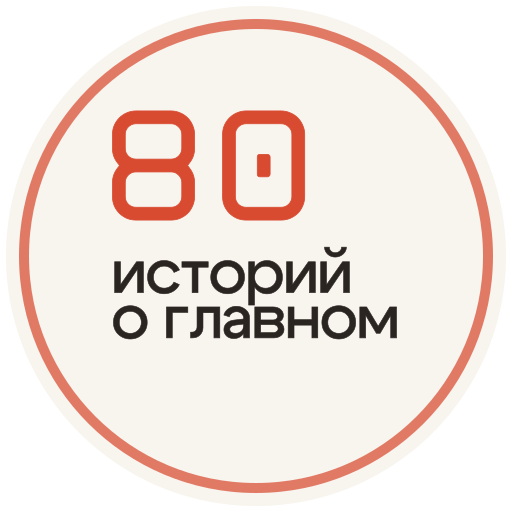
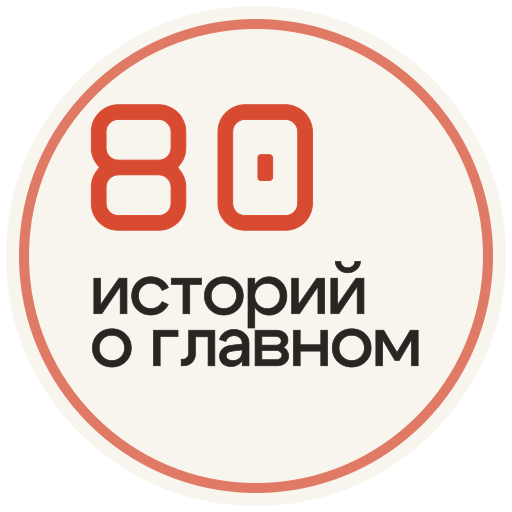
fix(static-site): tune organizer medallion visuals

Changed region(s): [[0.1562, 0.4688, 0.8438, 0.7188], [0.1562, 0.1875, 0.625, 0.4688]]

diff --git a/site/src/assets/organizers/source/README.md b/site/src/assets/organizers/source/README.md
@@ -13,9 +13,9 @@ These files are official/source-faithful inputs for the first event-page organiz
 | `dom-kitoboya` | Дом китобоя | https://domkitoboya.ru/ + https://t.me/domkitoboya | source logo snapshot `dom-kitoboya.logo.webp` + Telegram avatar snapshot `dom-kitoboya.telegram-avatar-20260701.jpg` | `/assets/organizers/dom-kitoboya-stacked.webp` (`.png` fallback) | Медальон собирается из фирменного логотипа без верхней мелочи; public `logo.svg` candidates returned 404 on 2026-07-02 while `logo.webp`/`logo.png` exist, so the medallion remains WebP-first raster until a source SVG is found. |
 | `tretyakovka-kaliningrad` | Филиал Третьяковской галереи | https://t.me/tretyakovka_kaliningrad | Telegram avatar snapshot `tretyakovka-kaliningrad.telegram-avatar-20260701.jpg` | `/assets/organizers/tretyakovka-kaliningrad.svg` + PNG/WebP fallback | Простая геометричная золотая буква `Т` реконструирована как SVG-примитивы на тёплом светлом фоне. |
 | `konb` | Калининградская областная научная библиотека | local docs/reference/лого КОНБ (1)(1).png | `konb.logo.png` | `/assets/organizers/konb.webp` / `/assets/organizers/konb.png` | Explicit raster exception for the 2026-07-02 SVG pass; this task intentionally does not convert КОНБ. |
-| `act-opus` | Театр «Акт Опус» | https://actop.us/plays | Next image PNG `logo_new_black.3136802c.png` | `/assets/organizers/act-opus.svg` (`.png` fallback) | Осьминог заменён на стековую надпись из официального wordmark: блок `АКТ` и слово `ОПУС` сохранены из source PNG и размещены друг над другом внутри круга. SVG self-contained, без OpenAI image generation. |
-| `znanie-russia` | Российское общество «Знание» | https://znanierussia.ru/ + local kgd80 shared assets | official site CSS primary `#0501D0`; `logo-znanie-festival.svg` + `logo-znanie-main.svg` | `/assets/organizers/znanie-russia.svg` (`.png` fallback) | Полный круг залит официальным синим `#0501D0`, внутренний знак `З` оставлен белым и оптически центрирован. Для `event.festival=80 историй о главном` показывается по curated policy даже без явного упоминания Знания в тексте. |
-| `kgd80` | Фестиваль «80 историй о главном» | https://kgd80.ru/ | `kgd80.logo-80-istorii-hero.svg` from the KGD80 hero logo | `/assets/organizers/kgd80.svg` (`.png` fallback) | Новый медальон фестиваля из hero lockup; для событий `80 историй о главном` рендерится вместе с медальоном Российского общества «Знание». |
+| `act-opus` | Театр «Акт Опус» | https://actop.us/plays | Next image PNG `logo_new_black.3136802c.png` | `/assets/organizers/act-opus.svg` (`.png` fallback) | Осьминог заменён на стековую надпись из официального wordmark: блок `АКТ` и слово `ОПУС` сохранены из source PNG и размещены друг над другом внутри круга; `АКТ` уменьшен/опущен с безопасным inset. SVG self-contained, без OpenAI image generation. |
+| `znanie-russia` | Российское общество «Знание» | https://znanierussia.ru/ + local kgd80 shared assets | official site CSS primary `#0501D0`; `logo-znanie-festival.svg` + `logo-znanie-main.svg` | `/assets/organizers/znanie-russia.svg` (`.png` fallback) | Полный круг залит официальным синим `#0501D0`, внутренний знак `З` оставлен белым, увеличен и клипуется нижним краем круга. Для `event.festival=80 историй о главном` показывается по curated policy даже без явного упоминания Знания в тексте. |
+| `kgd80` | Фестиваль «80 историй о главном» | https://kgd80.ru/ | `kgd80.logo-80-istorii-hero.svg` from the KGD80 hero logo | `/assets/organizers/kgd80.svg` (`.png` fallback) | Новый медальон фестиваля из hero lockup; tighter viewBox увеличивает знак внутри круга с безопасными отступами. Для событий `80 историй о главном` рендерится вместе с медальоном Российского общества «Знание». |
 | `kantata-festival` | Фестиваль «Кантата» | https://kantatafest.ru/obrazovatelnaya-programma | `Kantata_logo_Black_R.png` | `/assets/organizers/kantata-festival.webp` (`.png` fallback) | Используется официальный wordmark «КАНТАТА»; source raster, поэтому runtime WebP-first. |
 
 No OpenAI image generation/editing was used. The medallions were produced by local SVG rendering/vectorization, source cropping/recomposition, embedded-source SVG where needed, and PNG fallback export. If no SVG source/vector-safe source exists, browser-facing runtime assets should be WebP-first, with PNG only as fallback/QA.

diff --git a/docs/features/static-site-pages/event-token-medallions.md b/docs/features/static-site-pages/event-token-medallions.md
@@ -119,9 +119,9 @@ The starter organizer avatars are saved as local medallion-ready assets. Runtime
 | Дом китобоя | `dom-kitoboya` | `/assets/organizers/dom-kitoboya-stacked.webp` (`.png` fallback) | source logo snapshot from `domkitoboya.ru` split into two words and recomposed as v2 enlarged/left-shifted `дом` over `Китобоя`; no official/source SVG was found in the checked public candidates, so this medallion intentionally remains WebP-first raster for now |
 | Филиал Третьяковской галереи | `tretyakovka-kaliningrad` | `/assets/organizers/tretyakovka-kaliningrad.svg` (`.png` fallback/QA) | public Telegram avatar from `t.me/tretyakovka_kaliningrad`; the simple gold `Т` mark is reconstructed as SVG primitives on a warm light background |
 | Калининградская областная научная библиотека | `konb` | `/assets/organizers/konb.webp` (`.png` fallback) | local reference `docs/reference/лого КОНБ (1)(1).png`; explicit raster exception for the 2026-07-02 SVG pass |
-| Театр «Акт Опус» | `act-opus` | `/assets/organizers/act-opus.svg` (`.png` fallback/QA) | official `actop.us/plays` Next image PNG wordmark; medallion stacks `АКТ` over `ОПУС`, replacing the octopus symbol |
-| Российское общество «Знание» | `znanie-russia` | `/assets/organizers/znanie-russia.svg` (`.png` fallback/QA) | current official site primary blue `#0501D0` from `znanierussia.ru`; local kgd80 vector supplies the white internal `З` symbol |
-| Фестиваль «80 историй о главном» | `kgd80` | `/assets/organizers/kgd80.svg` (`.png` fallback/QA) | KGD80 hero lockup from `site/src/assets/partners/source/kgd80.logo-80-istorii-hero.svg`; forced for `event.festival=80 историй о главном` |
+| Театр «Акт Опус» | `act-opus` | `/assets/organizers/act-opus.svg` (`.png` fallback/QA) | official `actop.us/plays` Next image PNG wordmark; medallion stacks `АКТ` over `ОПУС`, replacing the octopus symbol, with `АКТ` inset inside the circle |
+| Российское общество «Знание» | `znanie-russia` | `/assets/organizers/znanie-russia.svg` (`.png` fallback/QA) | current official site primary blue `#0501D0` from `znanierussia.ru`; local kgd80 vector supplies the enlarged white internal `З` symbol clipped by the lower circle edge |
+| Фестиваль «80 историй о главном» | `kgd80` | `/assets/organizers/kgd80.svg` (`.png` fallback/QA) | KGD80 hero lockup from `site/src/assets/partners/source/kgd80.logo-80-istorii-hero.svg`; tighter medallion viewBox with safe margins; forced for `event.festival=80 историй о главном` |
 | Фестиваль «Кантата» | `kantata-festival` | `/assets/organizers/kantata-festival.webp` (`.png` fallback) | official Tilda PNG wordmark `КАНТАТА`; WebP-first because source is raster |
 
 Asset inventory:
@@ -137,9 +137,9 @@ Asset inventory:
 - `tretyakovka-kaliningrad` is reconstructed as simple SVG primitives from the geometric Telegram avatar;
 - `dom-kitoboya` is intentionally not SVG because no source SVG was found (`logo.svg` candidates returned 404); it is WebP-first with PNG fallback;
 - `konb` is intentionally unchanged as the explicit raster exception for this pass;
-- `act-opus` is updated to a self-contained SVG medallion that stacks the official `АКТ` / `ОПУС` wordmark instead of using the octopus symbol;
-- `znanie-russia` is updated to the official blue `#0501D0` full circle with the internal `З` kept white;
-- `kgd80` is added as an SVG festival medallion from the «80 историй о главном» hero logo;
+- `act-opus` is updated to a self-contained SVG medallion that stacks the official `АКТ` / `ОПУС` wordmark instead of using the octopus symbol, with the `АКТ` crop safely inset inside the circle;
+- `znanie-russia` is updated to the official blue `#0501D0` full circle with the internal `З` kept white, scaled larger and clipped by the lower circle edge;
+- `kgd80` is added as an SVG festival medallion from the «80 историй о главном» hero logo, using a tighter lockup viewBox for fuller circular occupancy;
 - `kantata-festival` remains a WebP-first raster medallion because the available official source is PNG;
 - `znanie-russia` is detected when the event explicitly names «Знание» as organizer/partner/supporter or links to `znanierussia.ru`, and is also forced by curated policy for `event.festival=80 историй о главном`.
 

diff --git a/CHANGELOG.md b/CHANGELOG.md
@@ -38,6 +38,7 @@
 
 - **Static site / information partners mobile grid**: replaced the oversized prose-card `/partners/` layout with compact full-tile partner links, a two-column mobile logo grid, desktop/tablet aspect-aware spans, and preview checks that block separate `Сайт партнёра` CTA regressions.
 - **Static site pages / KGD80 and organizer medallions**: corrected the Society «Знание» medallion to the official blue full-circle treatment with a white internal sign, replaced the Акт Опус octopus medallion with the stacked official wordmark, and added the «80 историй о главном» festival medallion with curated paired Znanie display for KGD80 festival events.
+- **Static site pages / medallion visual calibration**: optically tuned the Society «Знание», Акт Опус and «80 историй о главном» SVG medallions so the Znanie sign is larger and cropped by the lower circle edge, the `АКТ` wordmark stays inside the circle, and the KGD80 hero lockup fills the medallion with safe margins.
 - **Static site pages / mobile UI recovery**: fixed broken related-card images with a graceful fallback surface, restored the newer `/poisk/` avatar/progress/mobile-submit polish, raised the mobile terracotta drawer rail so it no longer overlaps the top navigation, converted `/partners/` to a minimalist logo wall, and made footer partner navigation a plain link.
 - **Static site pages / prompt-leak event guard**: added a narrow export-time safety filter for obvious prompt/debug titles so rows like event `6518` cannot be published into static previews or search vector fixtures before the production source row is repaired.
 - **Static site pages / event-detail discovery feed**: restored the accepted single neutral `Смотрите дальше` continuation feed on event pages and removed the visible extra exploration block from the recovered branch so preview checks match the event-detail product contract.
